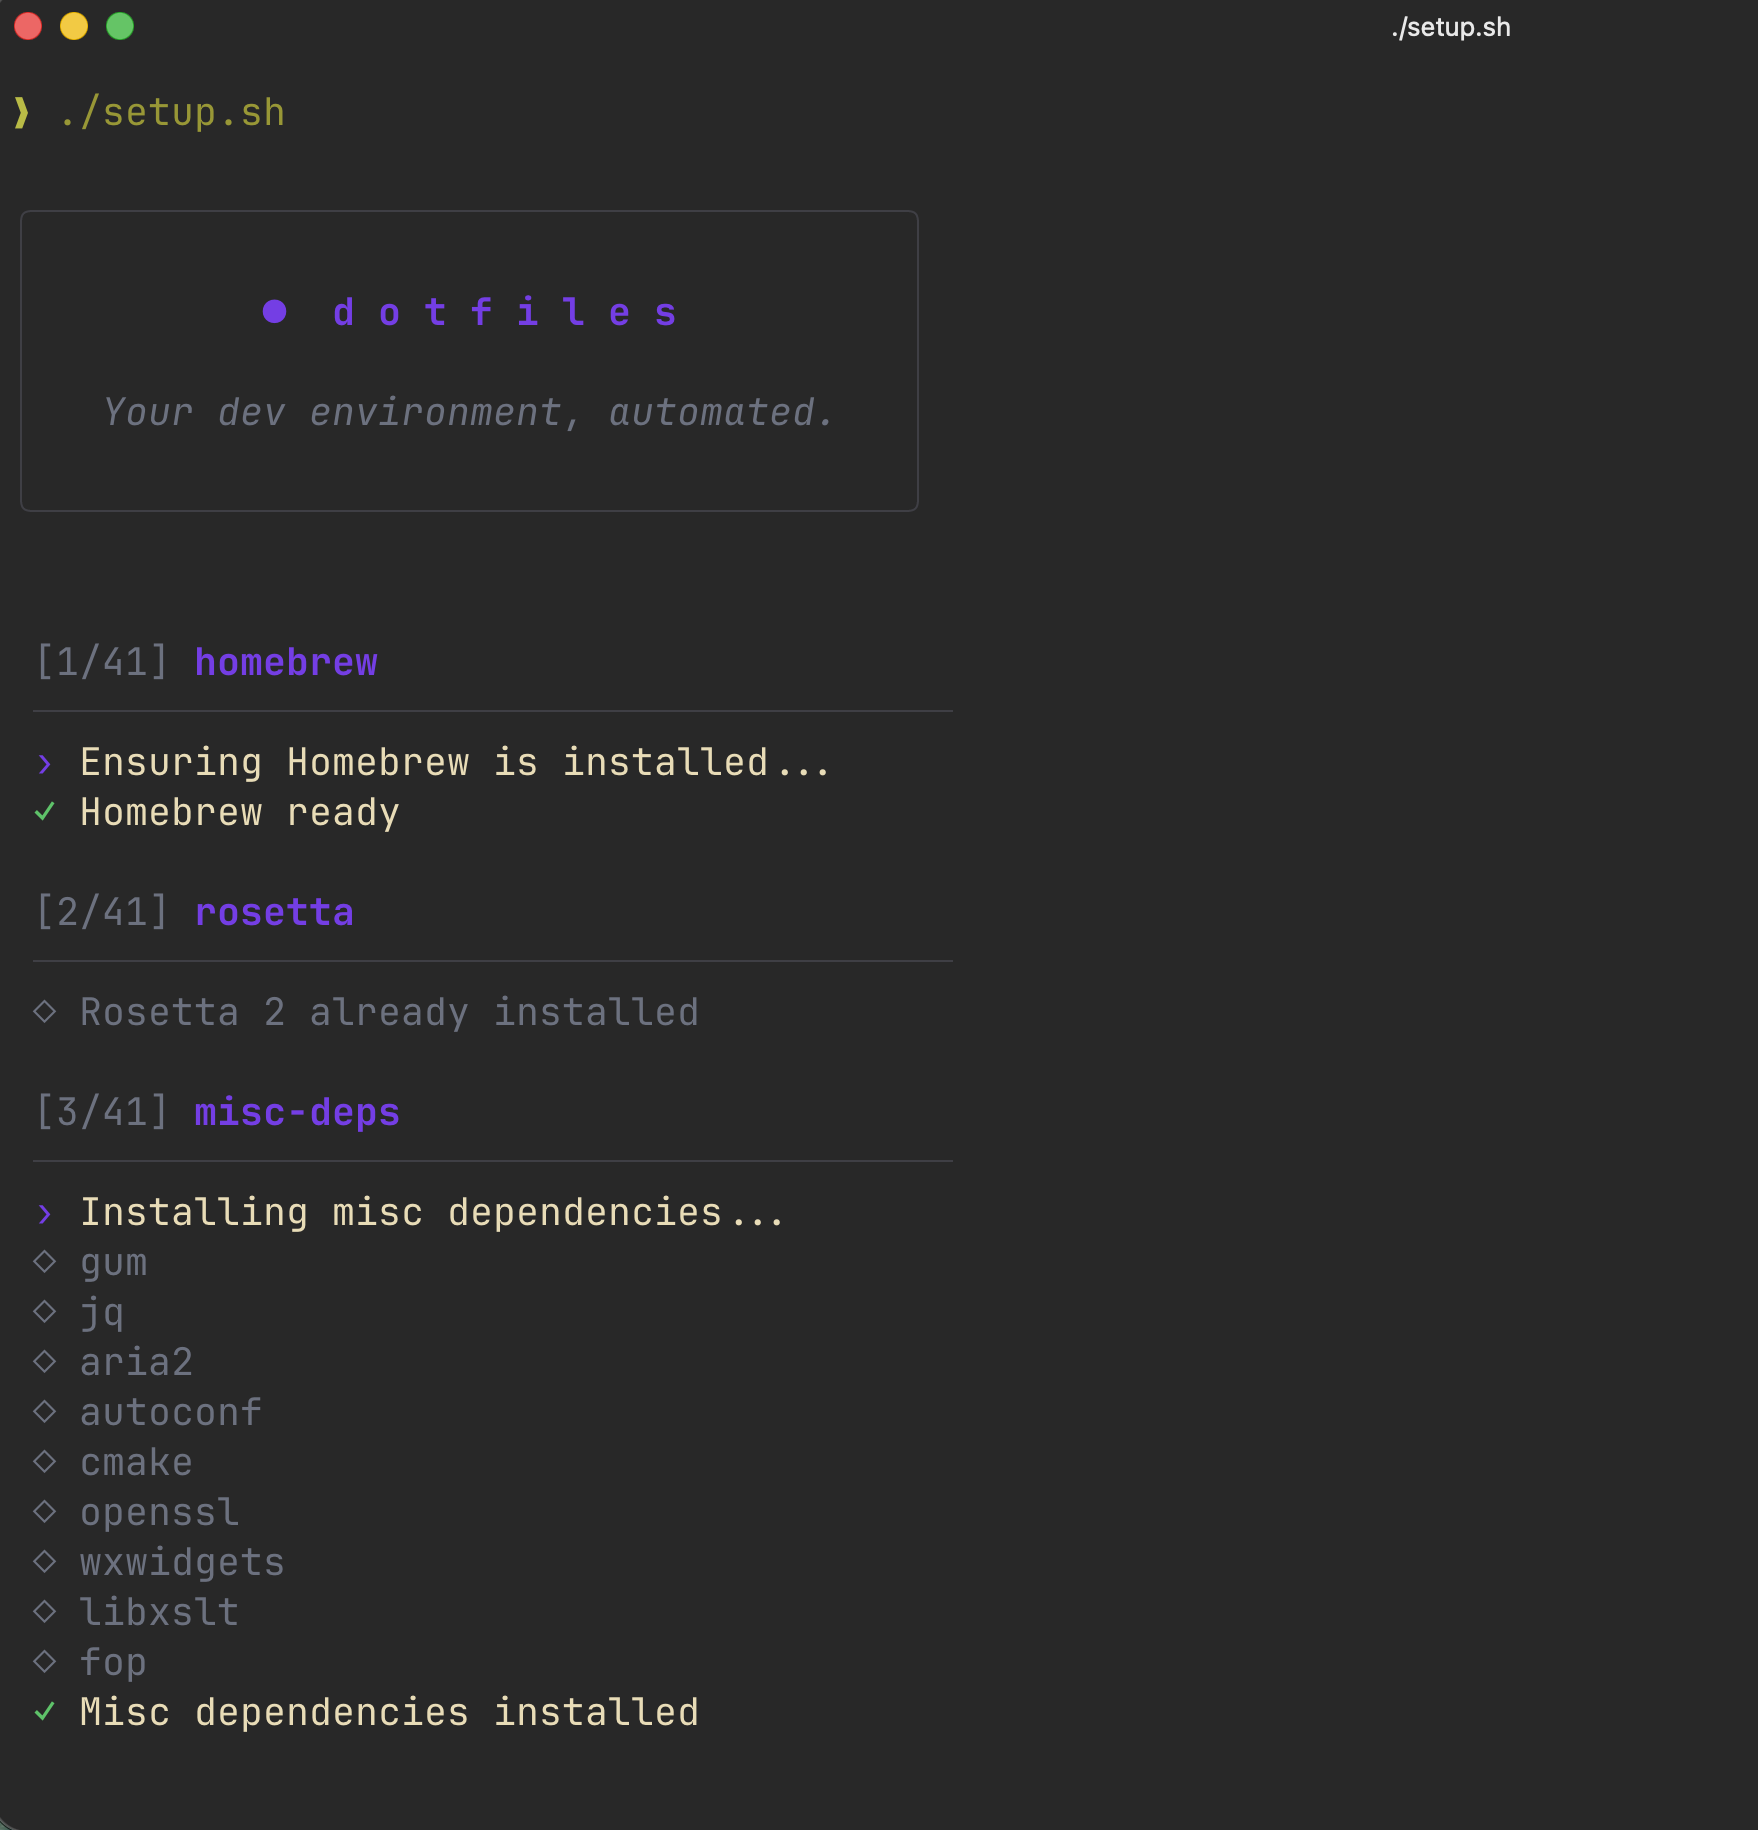
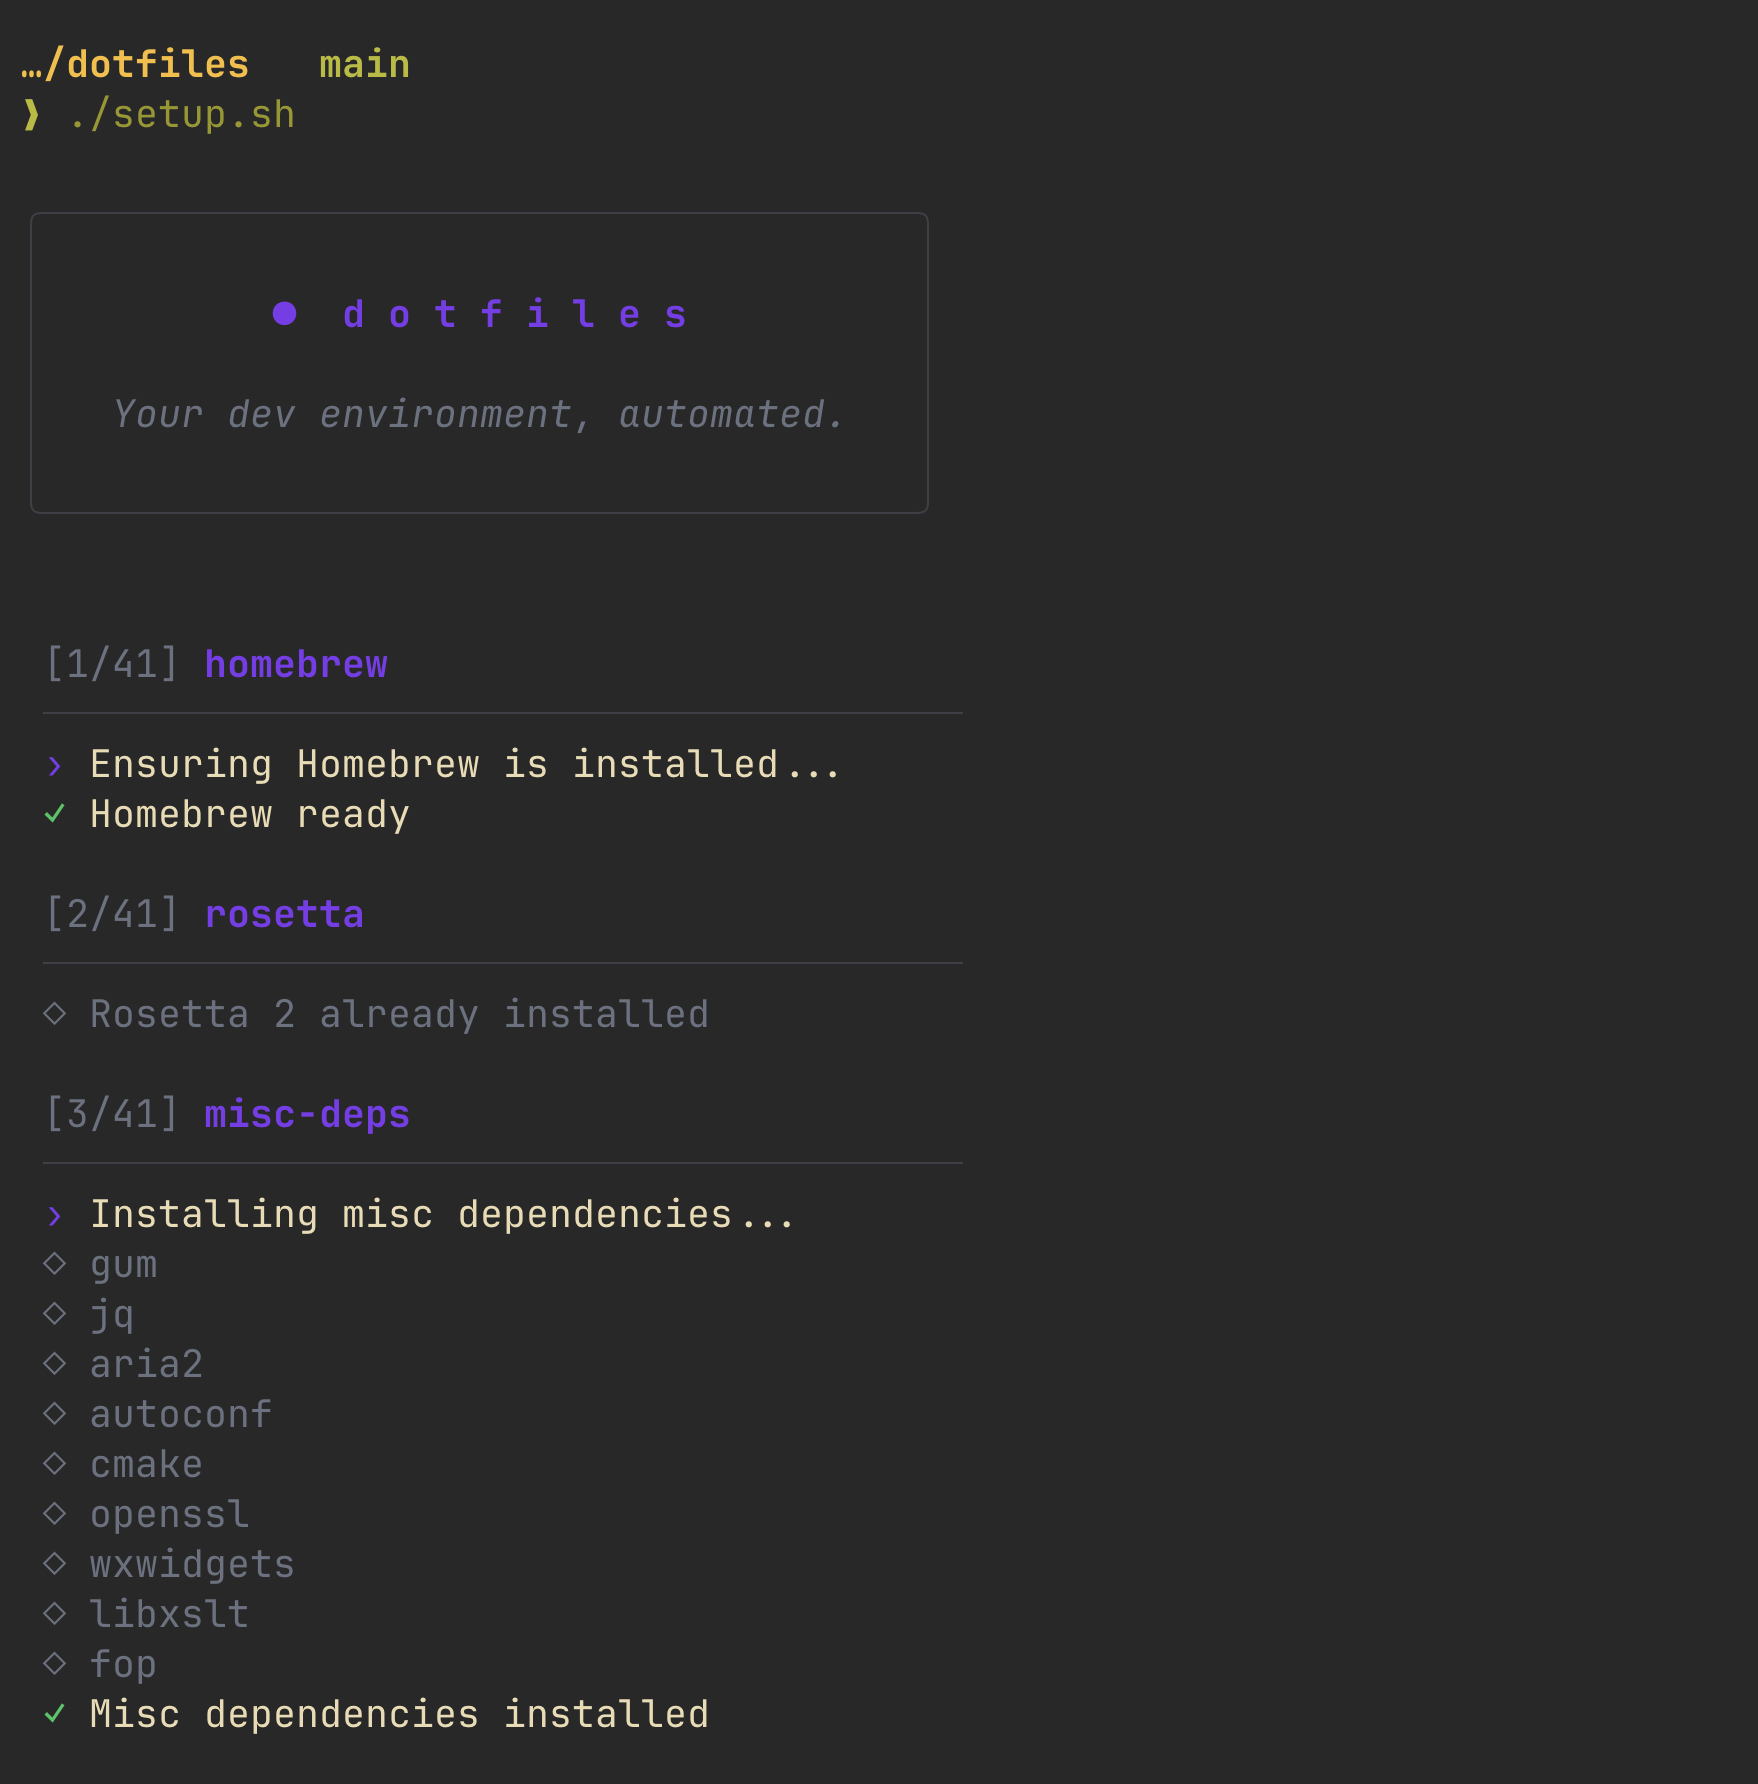
feat: cleanup readme

diff --git a/README.md b/README.md
@@ -8,13 +8,19 @@ This repo is what gets me from a freshly-wiped Mac to my actual working environm
 
 Clone or download the repo and run `./setup.sh` on a clean install. The whole thing is idempotent and you can re-run it anytime to update or restore.
 
+```bash
+git clone https://github.com/gregmundy/dotfiles.git /path/to/dotfiles
+cd /path/to/dotfiles
+./setup.sh
+```
+
 ![Dotfiles CLI](docs/screenshot.png)
 
 ---
 
-## What's Included
+## What's included
 
-### Development Tools
+### Development tools
 
 | Category | Tools |
 |----------|-------|
@@ -27,21 +33,18 @@ Clone or download the repo and run `./setup.sh` on a clean install. The whole th
 | **Version Control** | Git, Git LFS, GitHub CLI |
 | **Linting / Formatting** | Biome, ShellCheck |
 
-### CLI Tools
+### CLI tools
 
-```
-jq        JSON processor           fzf       Fuzzy finder
-yq        YAML processor           ripgrep   Fast grep
-bat       Better cat               eza       Modern ls
-gh        GitHub CLI               btop      System monitor
-lazygit   Git TUI                  lazydocker Docker TUI
-zoxide    Smarter cd               tldr      Simplified man pages
-httpie    HTTP client              delta     Better git diffs
-jless     JSON viewer              tmux      Terminal multiplexer
-direnv    Per-dir env vars         asdf      Version manager
-aria2     Download utility         gum       Shell UI toolkit
-mas       Mac App Store CLI
-```
+| Category | Tools |
+|----------|-------|
+| **Search & Navigation** | ripgrep, fzf, zoxide, eza |
+| **Viewers** | bat, jless, tldr |
+| **Data Wrangling** | jq, yq, httpie |
+| **Git & GitHub** | gh, lazygit, delta |
+| **System & Containers** | btop, lazydocker |
+| **Shell & Sessions** | tmux, direnv, gum |
+| **Version & Package** | asdf, mas |
+| **Downloads** | aria2 |
 
 ### Applications
 
@@ -55,7 +58,7 @@ mas       Mac App Store CLI
 | **Security** | 1Password, 1Password CLI |
 | **Entertainment** | Steam |
 
-### System Configuration
+### System configuration
 
 - **Terminal**: Ghostty with Gruvbox Dark theme, JetBrains Mono Nerd Font
 - **Shell**: Zsh with Oh My Zsh, Starship prompt, custom aliases and functions
@@ -66,7 +69,7 @@ mas       Mac App Store CLI
 
 ---
 
-## Dotfiles Managed
+## Dotfiles managed
 
 ```
 dotfiles/
@@ -84,9 +87,41 @@ dotfiles/
 
 ---
 
+## On the choices
+
+This is an opinionated setup. The tools here aren't a survey of what's available — they're what I've landed on after years of swapping things in and out. If you fork this, expect to disagree with at least a third of the choices.
+
+A few of the picks worth defending:
+
+**Ghostty over iTerm2.** I used iTerm2 for many years and Ghostty made the switch worth it. The config is plain text, the speed is unreal on Apple Silicon, and the defaults are saner than iTerm's accumulated complexity.
+
+**Raycast over Spotlight, Alfred, and LaunchBar.** They're all solving the same problem. Raycast just got there cleanest, and the extension ecosystem means I can stop building my own scripts for things other people have already built well.
+
+**uv over pip, pipenv, and poetry.** uv won. The other tools haven't fully realized it yet. Speed alone justifies it; the lock file format and resolver are a bonus.
+
+**Starship over Oh My Zsh themes.** I want my prompt to be fast and config-driven, not a community Frankenstein I have to debug when something breaks. Starship is one TOML file and it works.
+
+**Neovim *and* VS Code, not one or the other.** I keep trying to commit to one and keep coming back to using both. Neovim for terminal-context work and quick edits, VS Code (and increasingly Cursor) for longer sessions and anything visual. I've stopped trying to pick.
+
+**Local AI tools alongside cloud ones.** LM Studio and Ollama for local inference, Claude and ChatGPT for frontier work. The setup reflects how I actually use AI — local by default for the things that should stay local, cloud when the capability earns it.
+
+---
+
+## Why shell scripts and not Nix?
+
+This is a totally fair question, especially in 2026. I considered Nix seriously and decided against it for this specific job.
+
+Nix's promise — fully declarative, reproducible, atomic — is real, and the people who get over the learning curve genuinely love it. The trade-off is that everything you do has to go through Nix's abstractions, and the curve is steep enough that I lose the property I actually care most about: *being able to read every line of my setup and know exactly what it does*. Shell scripts are transparent. If something breaks during setup, I can read the script that broke and fix it without consulting documentation.
+
+I also looked at Ansible (heavier than I want for personal use), chezmoi (well-designed for templated multi-machine configs, but my setup is uniform across machines), and dotbot (too thin for what I needed). Plain shell scripts plus Homebrew Bundle hits the sweet spot of *enough automation, no abstractions I don't understand*.
+
+If you're already happy with Nix, you should keep using Nix. This isn't an argument against it — it's a different set of priorities.
+
+---
+
 ## Architecture
 
-### Installer Scripts
+### Installer scripts
 
 Scripts in `install/` run in numeric order:
 
@@ -103,7 +138,7 @@ Scripts in `install/` run in numeric order:
 | `80-89` | Mobile development (Watchman, CocoaPods) |
 | `90-99` | Language runtimes |
 
-### Library Functions
+### Library functions
 
 Helper functions in `lib/` are sourced by installers:
 
@@ -114,24 +149,24 @@ Helper functions in `lib/` are sourced by installers:
 
 ---
 
-## Post-Install Setup
+## Post-install setup
 
 Some tools require manual configuration after install:
 
-### 1Password SSH Agent
+### 1Password SSH agent
 Enable in 1Password: **Settings → Developer → SSH Agent**
 
-### Git Identity
+### Git identity
 The installer prompts for your name and email, stored in `~/.gitconfig.local` (not committed).
 
-### App Store Apps
+### App Store apps
 Sign into the App Store before running setup. The installer uses `mas` to install Apple Developer and TestFlight.
 
 ---
 
 ## Customization
 
-### Adding a New Installer
+### Adding a new installer
 
 1. Create `install/XX-name.sh` with appropriate number prefix
 2. Add standard header:
@@ -144,7 +179,7 @@ Sign into the App Store before running setup. The installer uses `mas` to instal
 4. Use `brew_install_formula` or `brew_install_cask`
 5. Make idempotent (check before installing)
 
-### Adding Dotfiles
+### Adding dotfiles
 
 1. Add config files to `dotfiles/appname/`
 2. Create an installer to symlink or copy them
